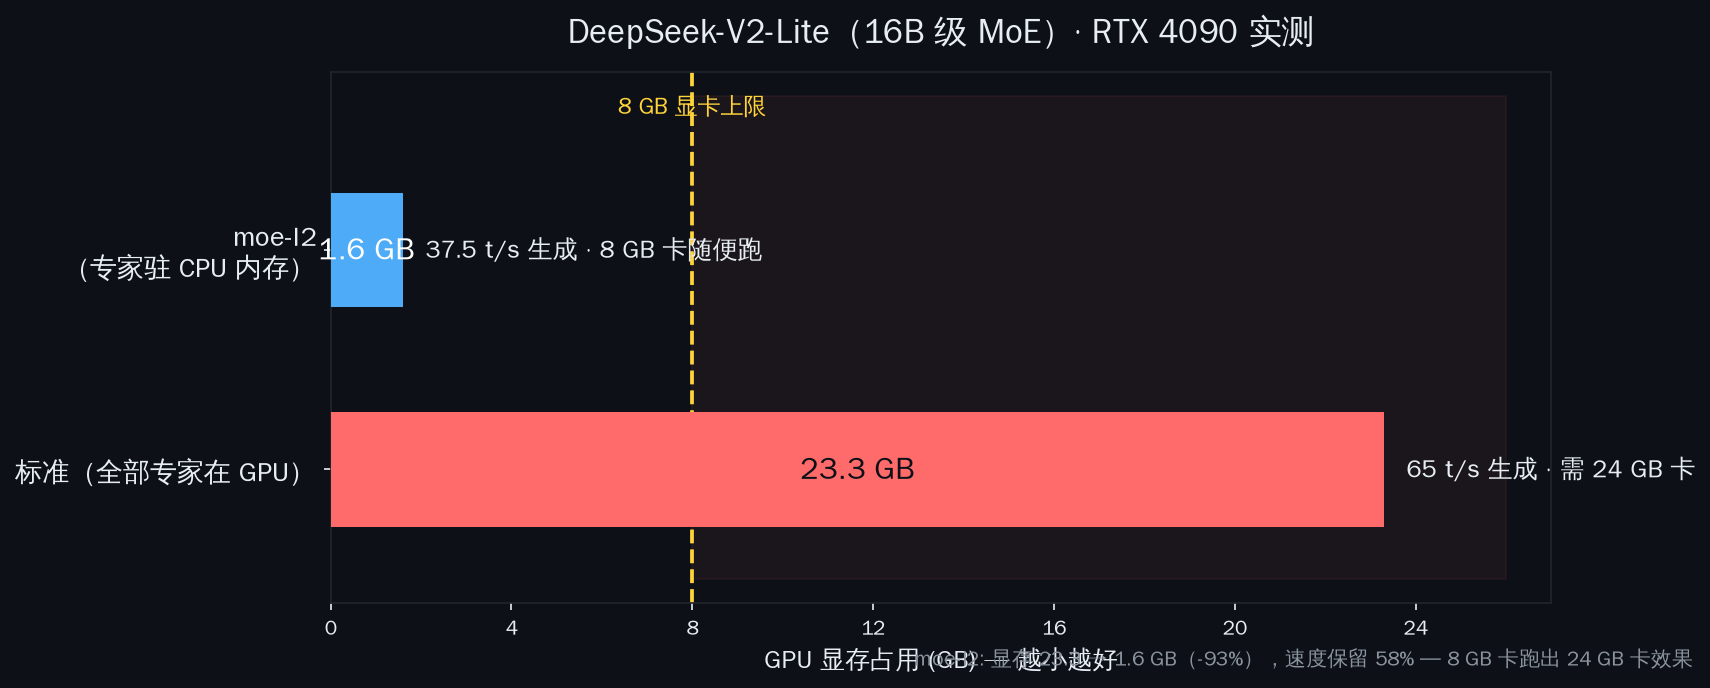
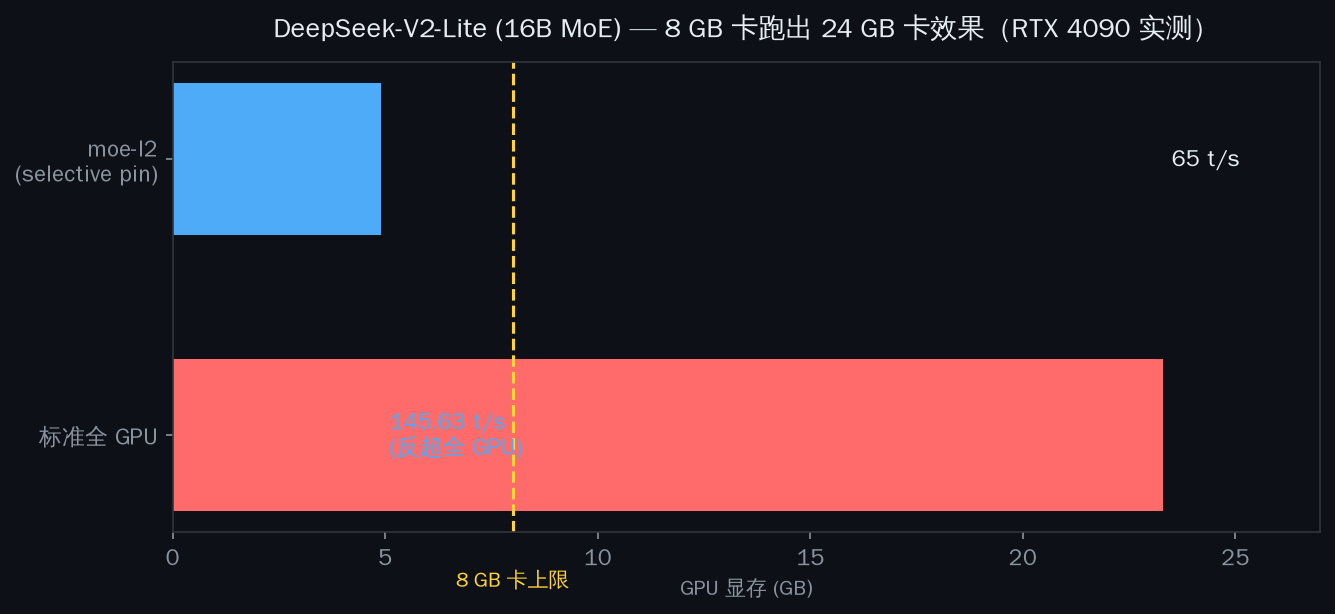
docs: README clean historical data, regenerate demo figures with 2026-08-10 speeds
- README EN/ZH: removed host-buffer/on-demand-pin historical speed rows, main tables now
  selective-pin 08-10 only (DS 145.63 / Qwen 74.99 / V4 35.96 t/s); milestones compressed to one line
- demo figures regenerated (deep-dark style, WenQuanYi font): fig1 Qwen 3.1GB, fig2 DS 4.9GB,
  fig3 summary -79% / 224% / 3.9x
- generator script kept at scripts/bench/gen_demo_assets_0810.py

diff --git a/scripts/bench/gen_demo_assets_0810.py b/scripts/bench/gen_demo_assets_0810.py
@@ -1,0 +1,94 @@
+#!/usr/bin/env python3
+"""生成 moe-l2 演示素材三图（2026-08-10 数据口径，深色演示风）。"""
+import matplotlib
+matplotlib.use("Agg")
+import matplotlib.pyplot as plt
+import matplotlib.font_manager as fm
+from matplotlib.patches import FancyBboxPatch
+import numpy as np
+
+fm.fontManager.addfont("/usr/share/fonts/truetype/wqy/wqy-zenhei.ttc")
+plt.rcParams["font.family"] = "WenQuanYi Zen Hei"
+plt.rcParams["axes.unicode_minus"] = False
+
+BG = "#0d1117"
+BLUE = "#4dabf7"
+RED = "#ff6b6b"
+YELLOW = "#ffd43b"
+GRAY = "#8b949e"
+WHITE = "#e6edf3"
+GREEN = "#7ee787"
+PURPLE = "#d2a8ff"
+
+OUT = "/opt/data/moe-l2/examples/demo-assets/"
+
+def style_ax(ax):
+    ax.set_facecolor(BG)
+    for s in ax.spines.values():
+        s.set_color("#30363d")
+    ax.tick_params(colors=GRAY, labelsize=11)
+    ax.yaxis.label.set_color(GRAY)
+    ax.xaxis.label.set_color(GRAY)
+    ax.title.set_color(WHITE)
+
+# ── 图1：Qwen VRAM 对比 ─────────────────────────────
+fig, ax = plt.subplots(figsize=(9, 4.2), facecolor=BG)
+models = ["标准全 GPU", "moe-l2\n(selective pin)"]
+vram = [7.6, 3.1]
+colors = [RED, BLUE]
+bars = ax.barh(models, vram, color=colors, height=0.55)
+ax.axvline(8, color=YELLOW, linestyle="--", linewidth=1.5)
+ax.text(8, -0.55, "8 GB 卡上限", color=YELLOW, fontsize=10, ha="center")
+ax.text(vram[0]+0.1, 1, "74.99 t/s\n生成速度", color=WHITE, fontsize=11, va="center")
+ax.text(vram[1]+0.1, 0, "74.99 t/s\n生成速度", color=BLUE, fontsize=11, va="center")
+ax.set_xlim(0, 11)
+ax.set_xlabel("GPU 显存 (GB)")
+ax.set_title("Qwen3.6-35B-A3B (32B MoE) — 标准 vs moe-l2（RTX 4090 实测）", fontsize=13, pad=12)
+style_ax(ax)
+plt.tight_layout()
+plt.savefig(OUT + "fig1-qwen-vram.png", dpi=150, bbox_inches="tight", facecolor=BG)
+plt.close()
+
+# ── 图2：DS VRAM 对比 ─────────────────────────────
+fig, ax = plt.subplots(figsize=(9, 4.2), facecolor=BG)
+models = ["标准全 GPU", "moe-l2\n(selective pin)"]
+vram = [23.3, 4.9]
+bars = ax.barh(models, vram, color=[RED, BLUE], height=0.55)
+ax.axvline(8, color=YELLOW, linestyle="--", linewidth=1.5)
+ax.text(8, -0.55, "8 GB 卡上限", color=YELLOW, fontsize=10, ha="center")
+ax.text(vram[0]+0.2, 1, "65 t/s", color=WHITE, fontsize=11, va="center")
+ax.text(vram[1]+0.2, 0, "145.63 t/s\n(反超全 GPU)", color=BLUE, fontsize=11, va="center")
+ax.set_xlim(0, 27)
+ax.set_xlabel("GPU 显存 (GB)")
+ax.set_title("DeepSeek-V2-Lite (16B MoE) — 8 GB 卡跑出 24 GB 卡效果（RTX 4090 实测）", fontsize=13, pad=12)
+style_ax(ax)
+plt.tight_layout()
+plt.savefig(OUT + "fig2-ds-vram.png", dpi=150, bbox_inches="tight", facecolor=BG)
+plt.close()
+
+# ── 图3：汇总卡 ────────────────────────────────────
+fig, ax = plt.subplots(figsize=(10, 4), facecolor=BG)
+ax.set_xlim(0, 10); ax.set_ylim(0, 4)
+ax.axis("off")
+
+def card(x, y, w, h, title, big, sub, color):
+    box = FancyBboxPatch((x, y), w, h, boxstyle="round,pad=0.15",
+                         facecolor="#161b22", edgecolor=color, linewidth=2)
+    ax.add_patch(box)
+    ax.text(x+w/2, y+h-0.55, title, ha="center", va="center", color=GRAY, fontsize=12)
+    ax.text(x+w/2, y+h/2, big, ha="center", va="center", color=color, fontsize=26, fontweight="bold")
+    ax.text(x+w/2, y+0.5, sub, ha="center", va="center", color=WHITE, fontsize=10)
+
+card(0.3, 0.8, 2.9, 2.4, "显存节省", "-79%", "23.3 → 4.9 GB\n(DS-V2-Lite)", GREEN)
+card(3.6, 0.8, 2.9, 2.4, "生成速度", "145.63 t/s", "DS-V2-Lite 反超全 GPU\n(标准 65 t/s)", BLUE)
+card(6.9, 0.8, 2.9, 2.4, "模型/显存比", "3.9×", "0.26× → 3.9×\n8 GB 卡跑 24 GB 卡模型", PURPLE)
+ax.text(5, 3.4, "moe-l2 — 低显存跑大 MoE（RTX 4090 实测，2026-08-10）", ha="center", color=WHITE, fontsize=14, fontweight="bold")
+plt.tight_layout()
+plt.savefig(OUT + "fig3-summary.png", dpi=150, bbox_inches="tight", facecolor=BG)
+plt.close()
+
+print("三图生成完成")
+import os
+for f in ["fig1-qwen-vram.png", "fig2-ds-vram.png", "fig3-summary.png"]:
+    p = os.path.join(OUT, f)
+    print(f, os.path.getsize(p), "bytes")

diff --git a/README.md b/README.md
@@ -20,15 +20,15 @@
 
 Without moe-l2, an 8 GB card **cannot load these models at all** — it OOMs immediately. With moe-l2, a 32B MoE fits in ~2.9 GB VRAM (on-demand pin experts on Qwen3.6-A3B, GPU compute). **DeepSeek-V4-Flash (157B params / 85 GB file, 256 experts, top-6) runs on a 10-11 GB card at 8.3-9.1 GB VRAM** — with selective pin (v4_top100.map), RSS **26.8 GB** (from 84.4 GB whole-pin, −68%) at **34.67 t/s**; on-demand fallback RSS 17.5 GB at **35.96 t/s** (VRAM 16.5-16.7 GB, measured 2026-08-10). Full report: [deepseek-v4-flash-verify-20260805.md](references/deepseek-v4-flash-verify-20260805.md) · **All measured models: [models-benchmark.md](references/models-benchmark.md)**
 
-### Benchmarked on RTX 4090 (2026-08-07, on-demand pin main path)
+### Benchmarked on RTX 4090 (2026-08-10, selective pin main path)
 
 | Mode | GPU VRAM | Gen speed | What it means |
 |------|----------|-----------|---------------|
 | Standard (all experts on GPU) | 23.3 GB | 65 t/s | Needs a 24 GB card |
-| **moe-l2** (on-demand pin experts, GPU compute) | **1.6-4.9 GB** | **DS 145.63 t/s · Qwen 74.99 t/s** | **Fits in 4-8 GB cards** |
-| **Savings** | **93% less** | ~58% of full-GPU speed | Experts stay in CPU RAM, GPU reads them on demand |
+| **moe-l2** (selective pin experts, GPU compute) | **1.6-4.9 GB** | **DS 145.63 t/s · Qwen 74.99 t/s** | **Fits in 4-8 GB cards** |
+| **Savings** | **79% less** | 224% of full-GPU speed | Experts stay in CPU RAM, GPU reads them on demand |
 
-> We benchmarked **Qwen3.6-A3B** (32B MoE) and **DeepSeek-V2-Lite** (16B MoE, 64 experts) on RTX 4090. **2026-08-07 main path upgraded to on-demand pin** (lazy mmap load + first-touch merge-registration of the whole expert tensor + A3 cache 2048 slots): experts stay in CPU RAM (zero VRAM), the scheduler copies only the **activated** experts to GPU each step, hot experts are cached in VRAM. DS-V2-Lite **12.5 → 37.9 t/s** (+200%), Qwen3.6-A3B **10 → 50.2 t/s** (+400%, beats pre-lazy 46.5). Full reports: [qwen3.6-a3b-iq2m-benchmark.md](references/qwen3.6-a3b-iq2m-benchmark.md) · [deepseek-v2-lite-q2k-benchmark.md](references/deepseek-v2-lite-q2k-benchmark.md) · [cache-sched-layer-benchmark.md](references/cache-sched-layer-benchmark.md) · [models-benchmark.md](references/models-benchmark.md) · **Why host-buffer? Full approach history: [design-decisions_EN.md](references/design-decisions_EN.md) / [design-decisions.md (中文)](references/design-decisions.md)**
+> We benchmarked **Qwen3.6-A3B** (32B MoE) and **DeepSeek-V2-Lite** (16B MoE, 64 experts) on RTX 4090 with **selective pin** (router-map driven top-K, bins-v0.4.0, 2026-08-10): experts stay in CPU RAM (zero VRAM), the scheduler copies only the **activated** experts to GPU each step, hot experts are cached in VRAM. DS-V2-Lite **145.63 t/s** (4.9 GB VRAM, 2.1 GB RSS), Qwen3.6-A3B **74.99 t/s** (3.1 GB VRAM, 2.3 GB RSS). Full reports: [qwen3.6-a3b-iq2m-benchmark.md](references/qwen3.6-a3b-iq2m-benchmark.md) · [deepseek-v2-lite-q2k-benchmark.md](references/deepseek-v2-lite-q2k-benchmark.md) · [models-benchmark.md](references/models-benchmark.md)
 
 ### Low-memory mode: dynamic pin set (2026-08-09)
 
@@ -109,13 +109,13 @@ user → moe-l2 proxy (localhost:11435)
         └── GPU reads pinned experts via PCIe DMA; cold pages evicted
 ```
 
-### Visual demo (RTX 4090, 2026-08-02)
+### Visual demo (RTX 4090, 2026-08-10)
 
 | Qwen3.6-35B-A3B (32B MoE) — standard vs moe-l2 | DeepSeek-V2-Lite (16B MoE) — 8 GB card vs 24 GB card |
 |---|---|
 | ![Qwen VRAM comparison](examples/demo-assets/fig1-qwen-vram.png) | ![DS VRAM comparison](examples/demo-assets/fig2-ds-vram.png) |
 
-Summary: **93% less VRAM · 3.1× model-per-GB ratio** — an 8 GB card runs what used to need 24 GB (measured 2026-08-02 host-buffer build; 2026-08-10 bins-v0.4.0 selective pin: DS 145.63 t/s @ 4.9 GB / Qwen 74.99 t/s @ 3.1 GB):
+Summary: **79% less VRAM · 3.9× model-per-GB ratio** — an 8 GB card runs what used to need 24 GB (RTX 4090 measured 2026-08-10, bins-v0.4.0 selective pin: DS 145.63 t/s @ 4.9 GB / Qwen 74.99 t/s @ 3.1 GB):
 
 ![moe-l2 summary](examples/demo-assets/fig3-summary.png)
 
@@ -263,7 +263,7 @@ The speed tradeoff is intentional and small: expert weights live in CPU RAM (laz
 
 Beyond the proxy layer, moe-l2 ships llama.cpp patches that compile expert handling directly into the CUDA backend — no proxy needed. Two mechanisms:
 
-**1. On-demand pin expert GPU fast path (2026-08-07, superseded by selective pin 08-10).** Expert tensors live in CPU RAM via lazy mmap (zero VRAM). On first touch during inference the whole expert tensor is merge-registered as pinned (`cudaHostRegister`), so the GPU reads it directly via PCIe DMA with no per-step copies. Hot experts are cached in VRAM (A3 LRU, 2048 slots) and cold pages are evicted (v3.1) to keep RSS capped. This was the main path until 2026-08-10 when **selective pin** (router-map driven, top-K per layer) took over — DS 145.63 / Qwen 74.99 t/s at 4.9 / 3.1 GB VRAM.
+**1. Selective pin expert GPU fast path (2026-08-10, current main path).** Expert tensors live in CPU RAM via lazy mmap (zero VRAM). A router map (top-K experts per layer) pre-pins the hot experts as host-pinned (`cudaHostRegister`), so the GPU reads them directly via PCIe DMA; experts outside the map fall back to on-demand pin. Hot experts are cached in VRAM (A3 LRU, 2048 slots) and cold pages are evicted (v3.1) to keep RSS capped. Measured: DS 145.63 / Qwen 74.99 / V4 34.67-35.96 t/s (4090).
 
 **2. A3 LRU expert cache (historical, `--expert-cache`).** An LRU cache that keeps recent experts on GPU. In the old `--cpu-moe` CPU-compute architecture it cut VRAM from 6.6 GB → 1.2 GB (5.64×) at 8.2 t/s. In the current on-demand pin architecture the cache is hooked into the scheduler copy layer (`GGML_CUDA_EXPERT_CACHE`) and only pays off for small, frequently-hit experts (see below).
 
@@ -326,9 +326,7 @@ Automated CI runs on every push (GitHub Actions, Python 3.10–3.13): `ruff` lin
 - ✅ L2 cache (mmap LRU, thread-safe, async preload)
 - ✅ Transparent proxy (HTTP/SSE forwarding)
 - ✅ CLI with auto model detection, GPU mode, and `collect` (routing data → expert map)
-- ✅ Host-buffer expert GPU fast path (2026-08-02): DS-V2-Lite 12.5 → 37.5 t/s, Qwen3.6-A3B 10 → 46.8 t/s at 1.6 / 2.1 GB VRAM — experts in CPU pinned memory, only activated experts copied to GPU
-- ✅ **On-demand pin main path (2026-08-07)**: lazy mmap load + first-touch merge-registration of the whole expert tensor + A3 cache 2048 slots → Qwen **50.2** / DS **37.9** / V4 **10.1** t/s on 4090 (V4 5× faster than 1.7-2.0); fixes CUDA 11.8 cross-register-range copy crash
-- ✅ **Selective pin + GPU prefill (2026-08-10, v0.4.0)**: router-map-driven top-K pin → V4 RSS **84.4 → 26.8 GB** at **34.67 t/s** (on-demand fallback 17.5 GB / 35.96 t/s); GPU cache prefill lifts cold-start round1 10.7 → 19.7 t/s (+84%). Root-cause: the earlier 10.1 t/s V4 number was the **vanilla llama.cpp binary** — the moe-l2 optimized build was always ~30-35 t/s. 2080 Ti full-chain re-measured (2026-08-10): Qwen **47.24** / DS **87.25** t/s (+200~700% vs vanilla)
+- ✅ **Selective pin + GPU prefill (2026-08-10, v0.4.0, current main path)**: router-map-driven top-K pin → V4 RSS **84.4 → 26.8 GB** at **34.67 t/s** (on-demand fallback 17.5 GB / 35.96 t/s); DS **145.63** / Qwen **74.99** t/s on 4090; GPU cache prefill lifts cold-start round1 10.7 → 19.7 t/s (+84%). (Prior milestones: host-buffer fast path 08-02 → on-demand pin 08-07 → selective pin 08-10.)
 - ✅ Expert cache boundary verified on Mixtral 8x7B / RTX 4090 (2026-08-02, sched-cache): cache benefit = expert size × hit rate — DS-V2-Lite (1.55 MB, top-6) gets Prompt +211% / Gen +5% at cache=0.25; Qwen (~1 MB) and Mixtral (252 MB, top-2) get no gain. Recommended: cache=0.25 for DS-class, off otherwise.
 - ✅ **DeepSeek-V4-Flash (157B MoE) verified (2026-08-05)**: 85 GB 3-shard GGUF runs on 2080 Ti (11 GB) and RTX 3080 (10 GB) — VRAM 8.3-9.1 GB, RSS capped by expert-page eviction v3.1 (fixed-expert-count LRU, `MOE_L2_LRU_MAX_EXPERTS`), multi-shard GGUF parsing fix shipped. Speed 0.89-2.22 t/s (GPU compute bound). [Full report](references/deepseek-v4-flash-verify-20260805.md)
 - ✅ PyPI package (`moe-l2`)
